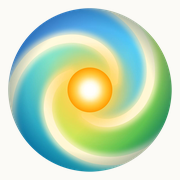
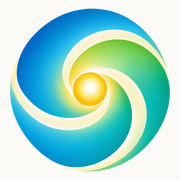
ロゴを完成版に差し替え、第3回のテーマを「良い連携」とは何かに
Claude-Session: https://claude.ai/code/session_01QUL4A57wHnWeest8vKg29W

diff --git a/src/content/events/03.md b/src/content/events/03.md
@@ -1,6 +1,8 @@
 ---
 number: 3
 title: 第3回 本質観取の会
+question: 「良い連携」とは何か
 date: "2027-01"
 status: 準備中
+tags: [連携]
 ---
